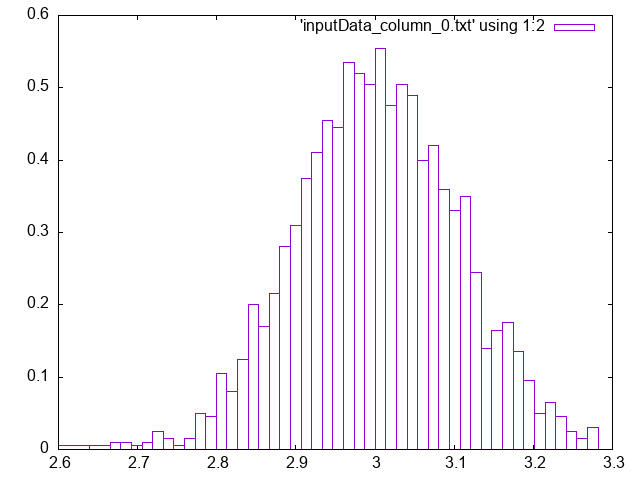
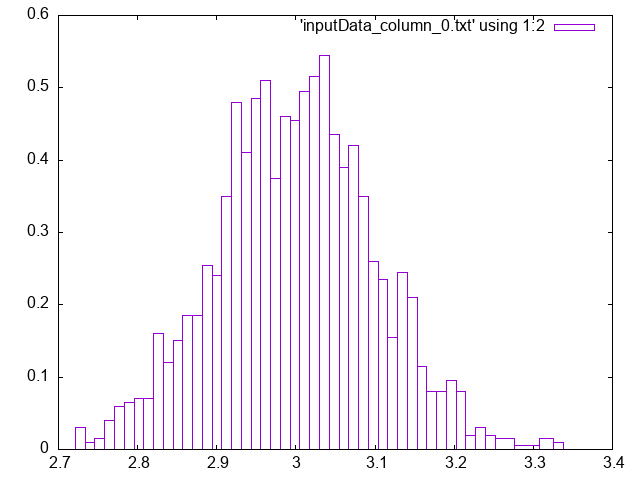
strangly converge

diff --git a/mcmc2.cpp b/mcmc2.cpp
@@ -133,25 +133,35 @@ public:
   }
 };
 
-// Функция для численного интегрирования (метод Эйлера)
+// Метод Рунге-Кутты 4-го порядка для численного интегрирования
 void integrate(std::vector<double> &x, std::vector<double> &v,
                const Model &model, const std::vector<std::vector<double>> &data,
                double epsilon, int num_steps) {
   for (int i = 0; i < num_steps; ++i) {
-    // Обновление x по v
+    // 1. Обновляем x по v
     for (int j = 0; j < x.size(); ++j) {
       x[j] += epsilon * v[j];
     }
 
-    // Вычисляем градиент
+    // 2. Обновляем v по градиенту
     std::vector<double> grad = model.gradient(x, data);
 
-    // Обновление v по градиенту
+    // 3. Используем метод Рунге-Кутты 4-го порядка для численного
+    // интегрирования
+    std::vector<double> v_temp = v;
+    std::vector<double> x_temp = x;
     for (int j = 0; j < v.size(); ++j) {
-      v[j] -= epsilon * grad[j];
+      // Обновление импульса (v)
+      v_temp[j] -= epsilon * grad[j];
+    }
+
+    // Теперь в цикле улучшенный расчет
+    for (int j = 0; j < v.size(); ++j) {
+      v[j] += epsilon * v_temp[j];
     }
   }
 }
+
 
 // Функция для выполнения HMC
 std::vector<std::vector<double>> hmc(Model &model,
